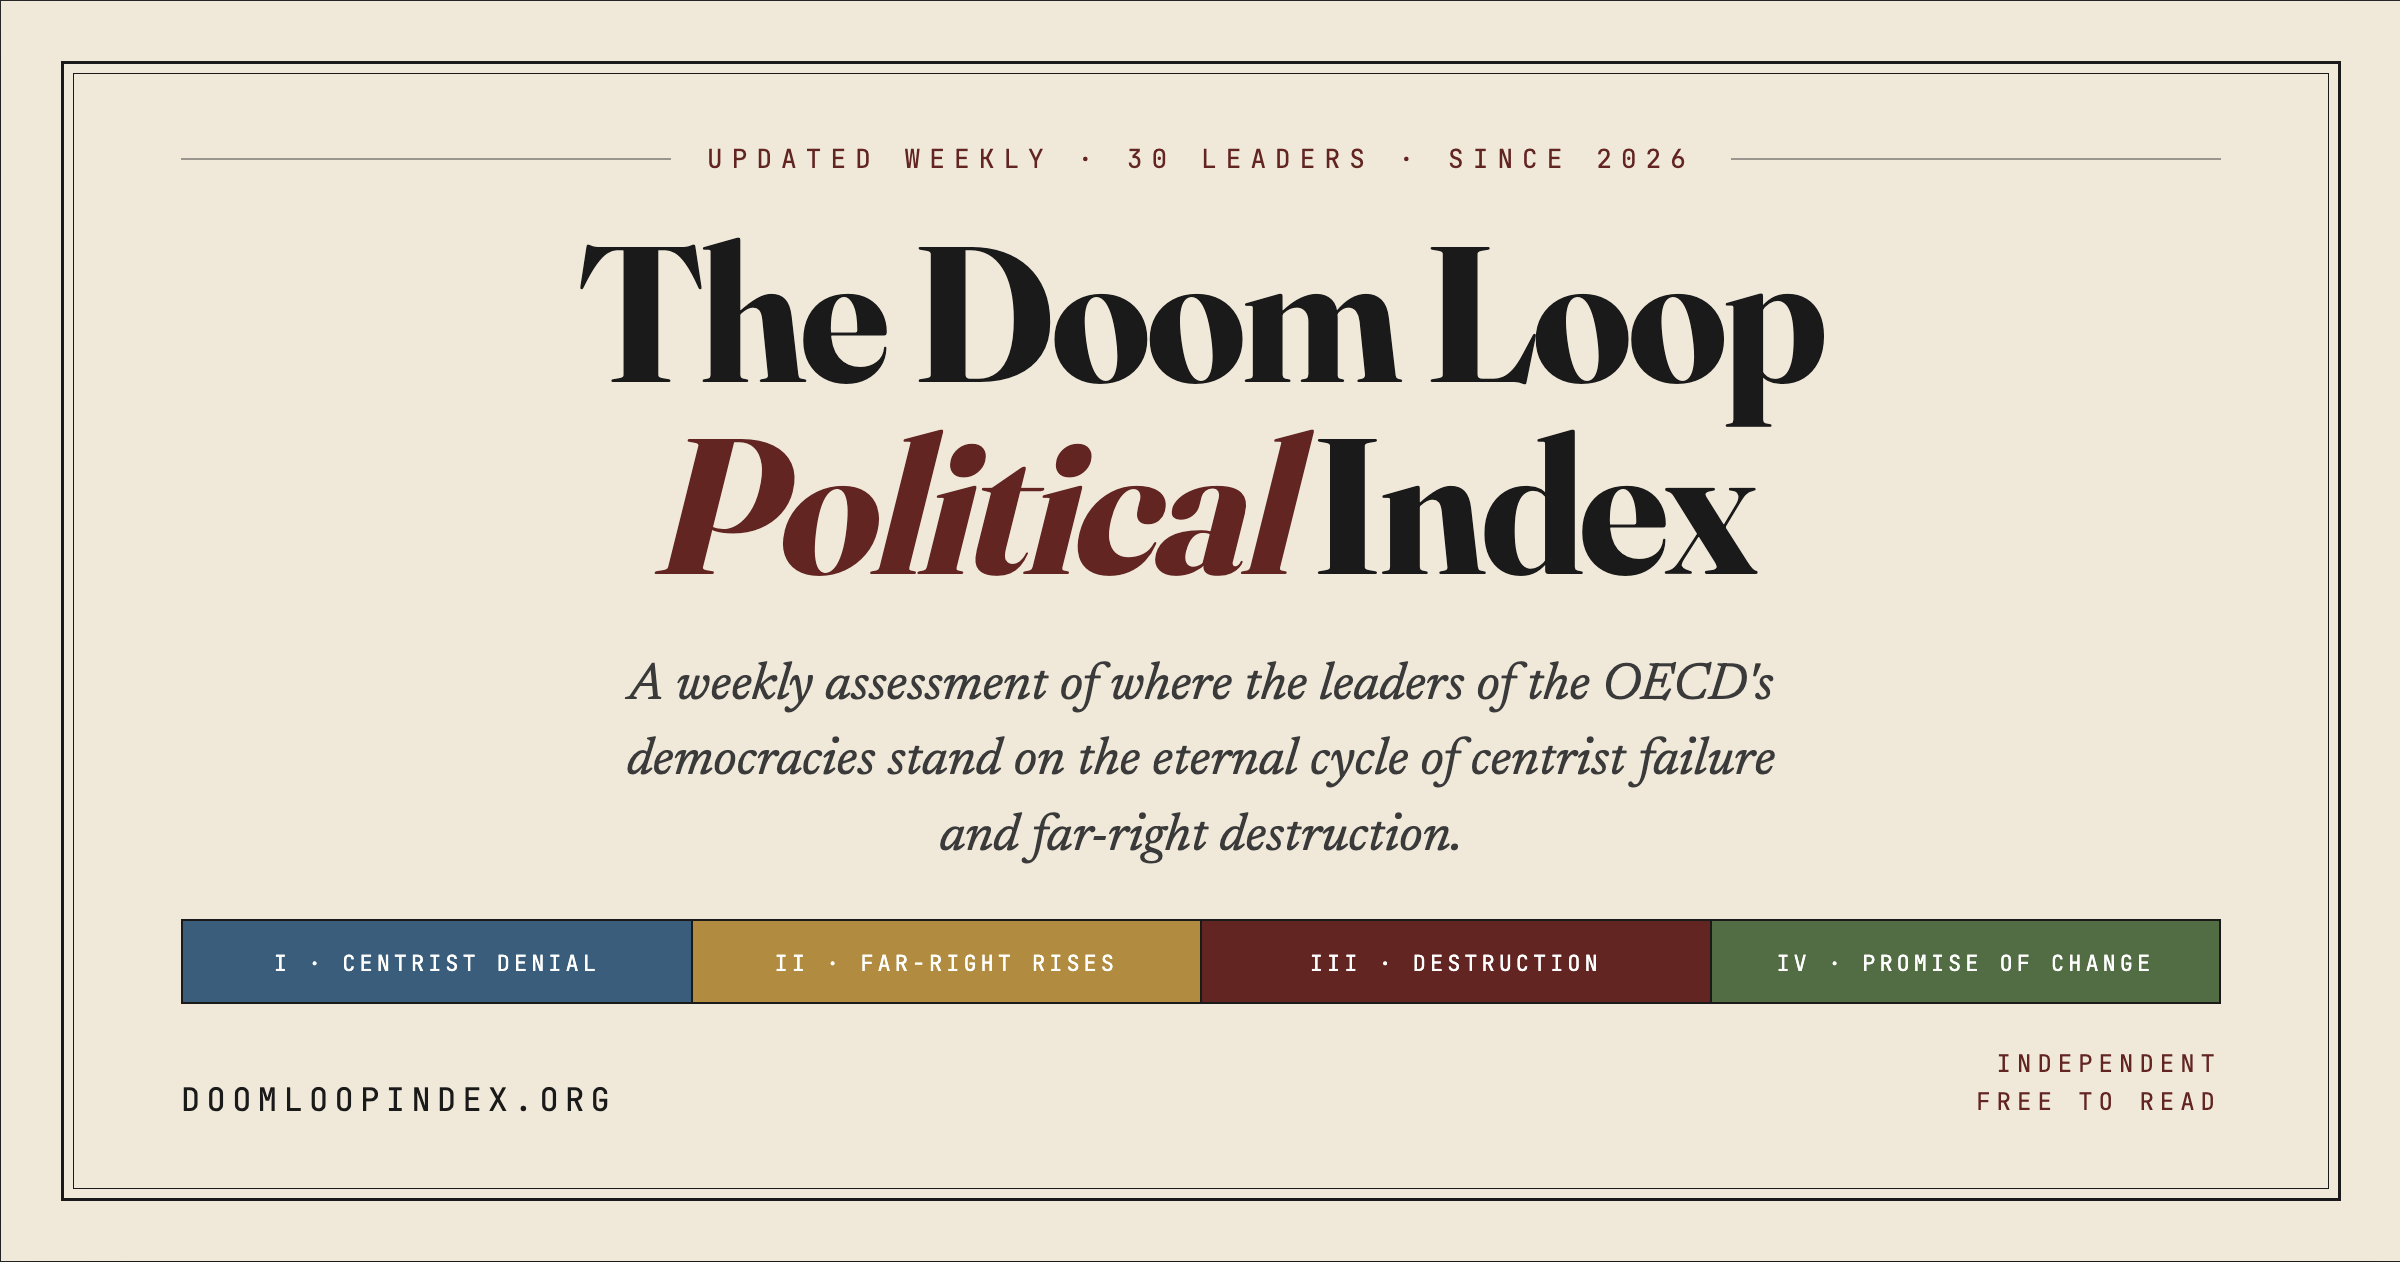
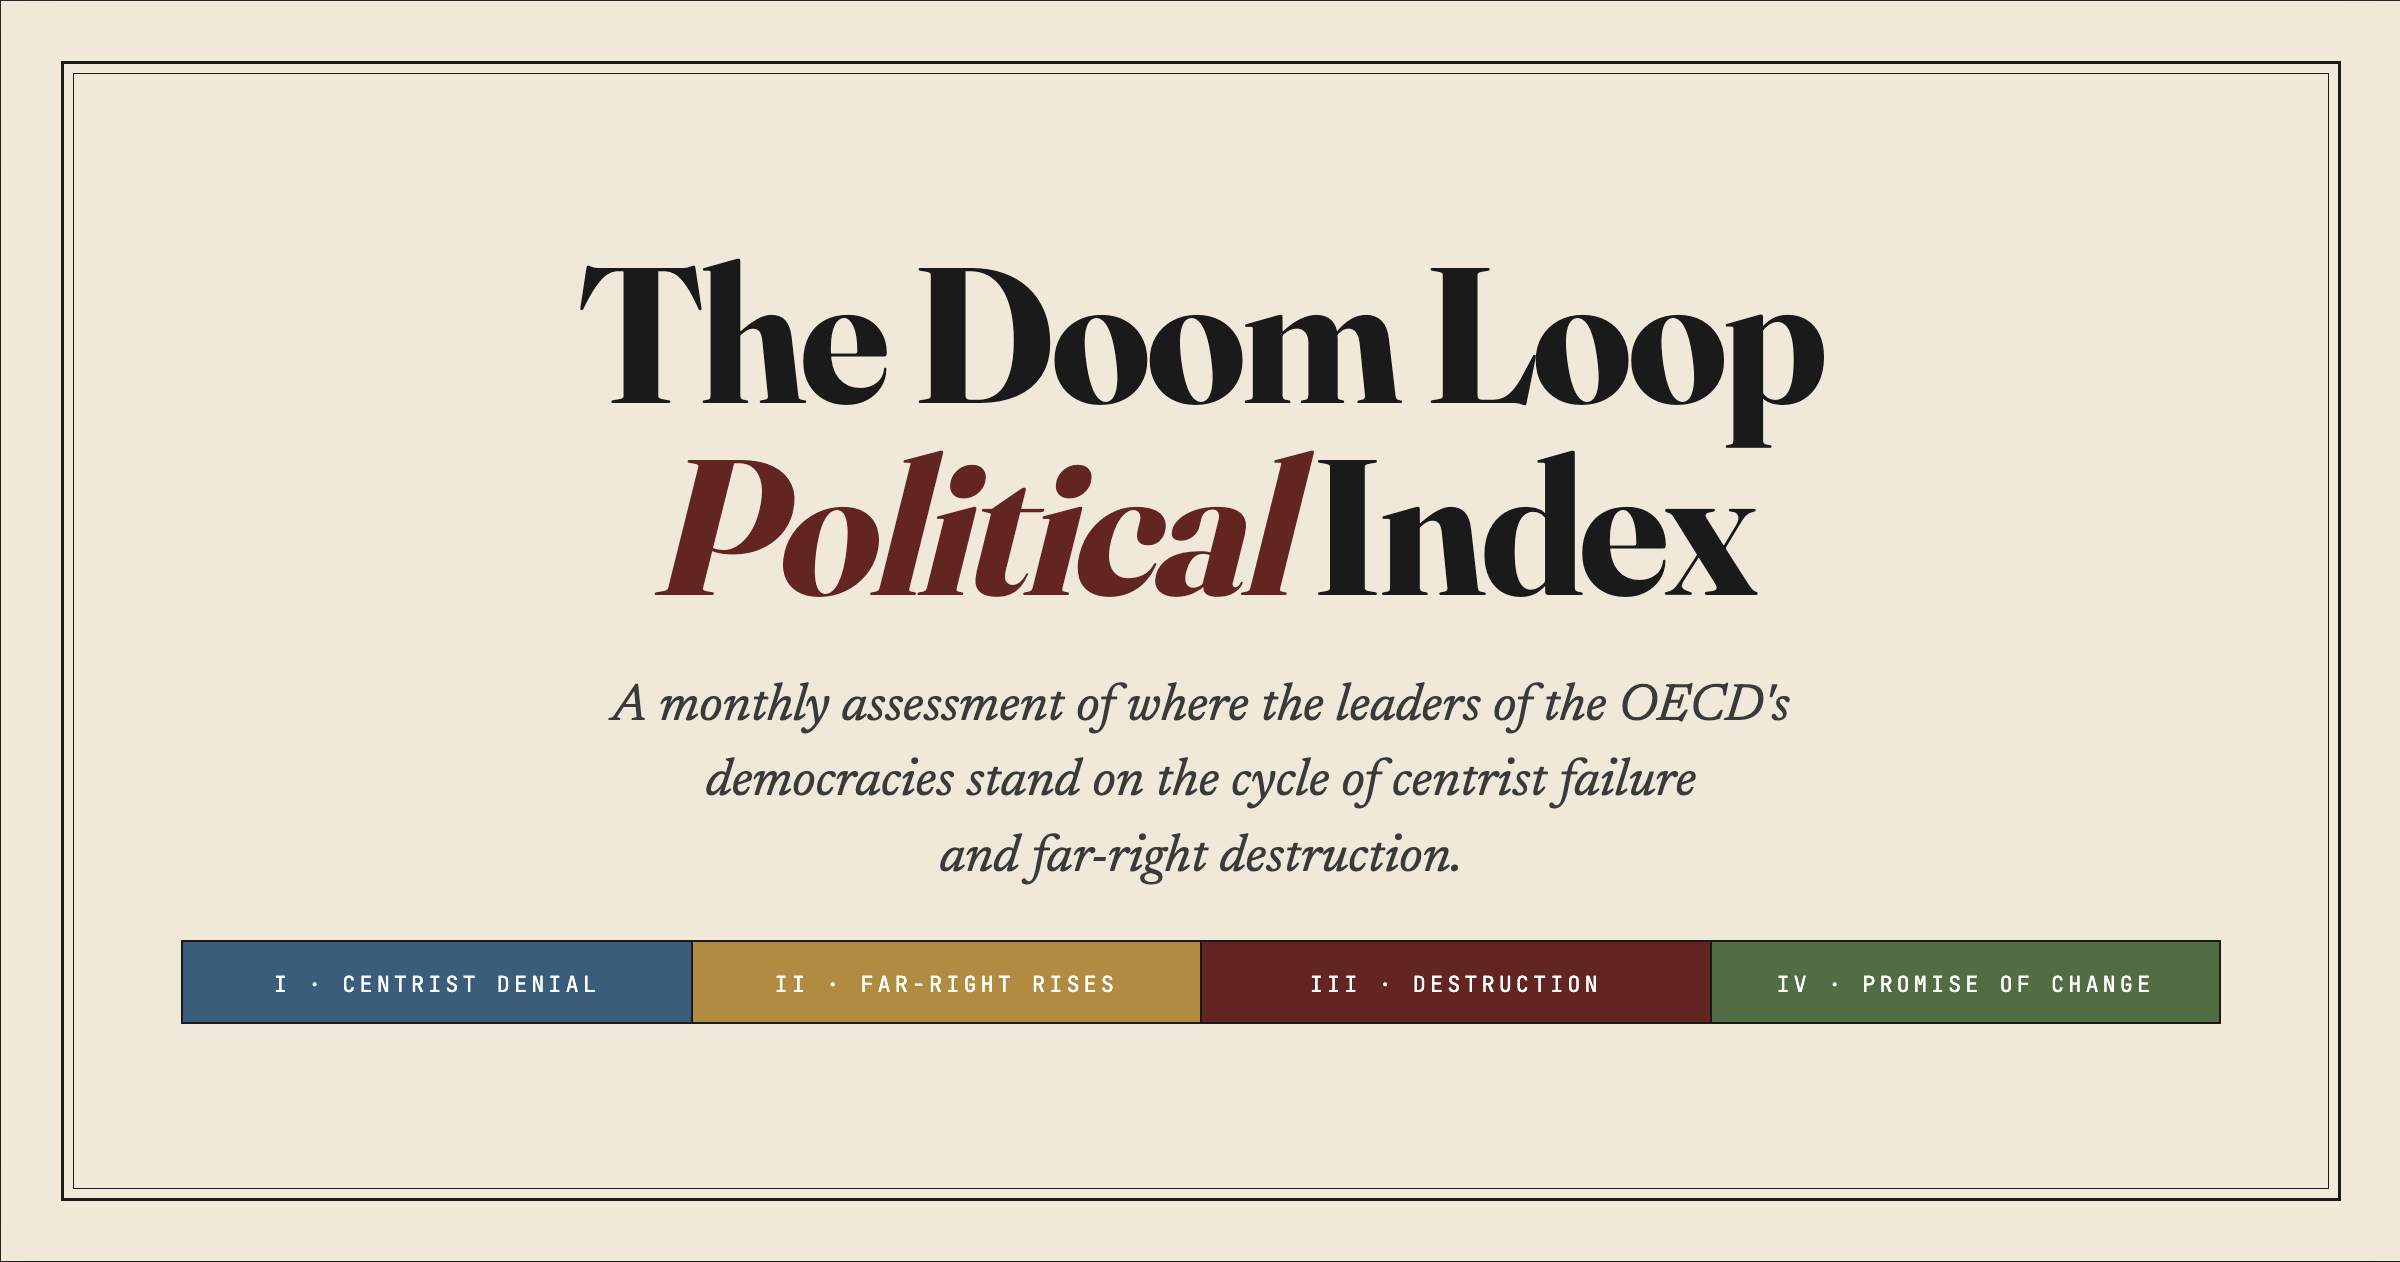
Dynamic last-update date in hero; remove 'eternal' from copy; cleaner OG image

diff --git a/docs/index.html b/docs/index.html
@@ -5,12 +5,12 @@
 <meta name="viewport" content="width=device-width, initial-scale=1.0">
 <title>The Doom Loop Political Index</title>
 
-<meta name="description" content="A monthly assessment of where the leaders of the OECD's democracies stand on the eternal cycle of centrist failure and far-right destruction.">
+<meta name="description" content="A monthly assessment of where the leaders of the OECD's democracies stand on the cycle of centrist failure and far-right destruction.">
 
 <meta property="og:type" content="website">
 <meta property="og:url" content="https://doomloopindex.org/">
 <meta property="og:title" content="The Doom Loop Political Index">
-<meta property="og:description" content="A monthly assessment of where the leaders of the OECD's democracies stand on the eternal cycle of centrist failure and far-right destruction.">
+<meta property="og:description" content="A monthly assessment of where the leaders of the OECD's democracies stand on the cycle of centrist failure and far-right destruction.">
 <meta property="og:image" content="https://doomloopindex.org/og-image.png">
 <meta property="og:image:width" content="1200">
 <meta property="og:image:height" content="630">
@@ -18,7 +18,7 @@
 
 <meta name="twitter:card" content="summary_large_image">
 <meta name="twitter:title" content="The Doom Loop Political Index">
-<meta name="twitter:description" content="A monthly assessment of where the leaders of the OECD's democracies stand on the eternal cycle of centrist failure and far-right destruction.">
+<meta name="twitter:description" content="A monthly assessment of where the leaders of the OECD's democracies stand on the cycle of centrist failure and far-right destruction.">
 <meta name="twitter:image" content="https://doomloopindex.org/og-image.png">
 <link rel="preconnect" href="https://fonts.googleapis.com">
 <link rel="preconnect" href="https://fonts.gstatic.com" crossorigin>
@@ -660,10 +660,10 @@ body::before {
 
 <header class="masthead">
   <h1>The Doom Loop <em>Political</em> Index</h1>
-  <p class="deck">A monthly assessment of where the leaders of the OECD's democracies stand on the eternal cycle of centrist failure and far-right destruction.</p>
+  <p class="deck">A monthly assessment of where the leaders of the OECD's democracies stand on the cycle of centrist failure and far-right destruction.</p>
   <div class="rules">
+    <span id="hero-last-update">Last update —</span>
     <span>Updated monthly</span>
-    <span>Tap a Leader</span>
   </div>
 </header>
 
@@ -1220,6 +1220,11 @@ function renderMasthead(latest, leaders) {
 
   document.getElementById('dateline').textContent = dateline;
   document.getElementById('footer-timestamp').textContent = `Last update: ${ts.toISOString().slice(0, 10)}`;
+
+  // Hero subtitle: "Last update [date]"
+  const heroOpts = { day: 'numeric', month: 'short', year: 'numeric' };
+  const heroDate = ts.toLocaleDateString('en-GB', heroOpts);
+  document.getElementById('hero-last-update').textContent = `Last update ${heroDate}`;
 
   const avg = leaders.reduce((s, L) => s + (L.doomScore || 0), 0) / leaders.length;
   document.getElementById('aggregate-number').textContent = Math.round(avg);